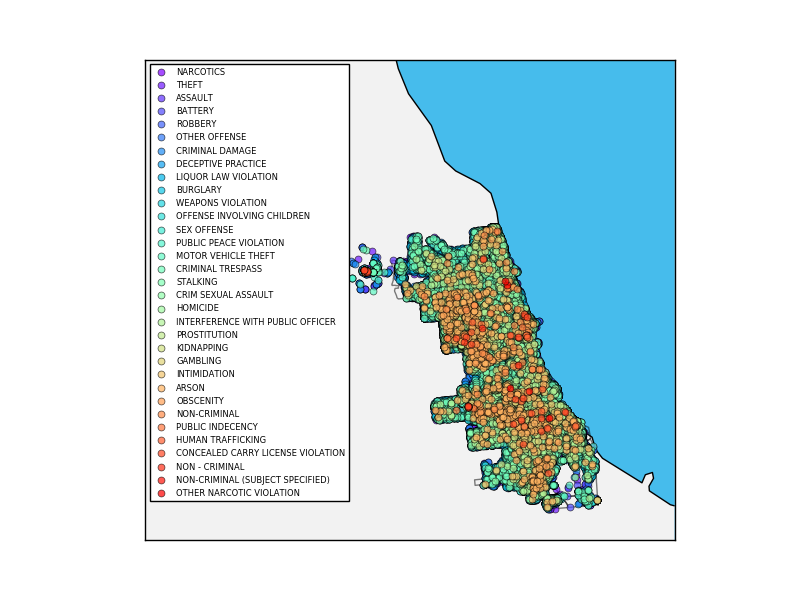
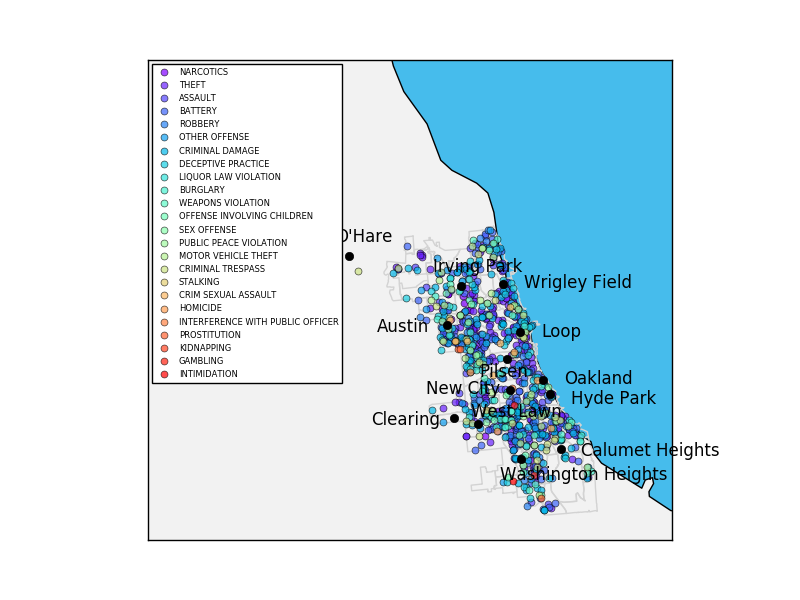
Add reference cities and refactor plot making

diff --git a/chicagoCrimes2016/organizeAndSortCrimes.py b/chicagoCrimes2016/organizeAndSortCrimes.py
@@ -1,7 +1,6 @@
 import numpy as np
 import pandas as pd
 import matplotlib.pyplot as plt
-import matplotlib.animation as animation
 import matplotlib.cm as cm
 from mpl_toolkits.basemap import Basemap
 from matplotlib.patches import Polygon
@@ -34,52 +33,46 @@ class crimes(object):
     def _save_dataframe_to_file(self, fname):
         self.crimes.to_csv(fname)
 
-def init():
-    point.set_data([], [])
-    return point,
+def getMap(df):
+    return Basemap(llcrnrlon=df['Longitude'].min()-0.4,
+                llcrnrlat=df['Latitude'].min(),
+                urcrnrlon=df['Longitude'].max()+0.2,
+                urcrnrlat=df['Latitude'].max()+0.2,
+                projection='lcc',lat_1=32,lat_2=45,lon_0=-95,
+                resolution = 'h')
+def drawNeighborhoods(mymap,hood_map):
+    for hood in hood_map.neighborhoods:
+        lon,lat = hood.polygon.exterior.coords.xy
+        x,y = mymap(lon,lat)
+        mymap.plot(x,y,'-k',color='lightgrey')
 
-def data_gen(df):
-    for index, row in df.iterrows():
-        yield [row['Latitude'],row['Longitude']]
+def drawRefPoints(mymap,refpoints):
+    for town in refpoints:
+        name,lat,lon, offx, offy = town
+        x,y = mymap(lon,lat)
+        mymap.plot(x, y, 'ok')
+        plt.annotate(name, xy=(x,y), xytext=(offx,offy),textcoords='offset points')
 
-def update(pt):
-    #array = scat.get_offsets()
-    #x,y = m(point[0],point[1])
-    #array = np.append(array, [x,y])
-    #scat.set_offsets(array)
-    #return scat
-    x, y = mymap(pt[1], pt[0])
-    point.set_data(x, y)
-    #array = point.get_offsets()
-    #array = np.append(array, [x,y])
-    #point.set_offsets(array)
-    return point,
     
 
 """ Main """
 if __name__ == "__main__":
+    refpoints = [['Loop',41.883333, -87.633333,15,-3],['Wrigley Field',41.948, -87.656,15,-3],['O\'Hare',42, -87.92,-10,10],['Irving Park',41.95, -87.73,-20,10],
+                 ['Oakland',41.82, -87.6,15,-3],['Hyde Park',41.8, -87.59,15,-7],['West Lawn',41.77, -87.72,-5,5],['Calumet Heights',41.728333, -87.579722,15,-5],
+                 ['Washington Heights',41.72, -87.65,-15,-15],['Clearing',41.78, -87.76,-60,-5],['Austin',41.9, -87.76,-50,-5],['Pilsen',41.85, -87.66,-20,-13],
+                 ['New City',41.81, -87.66,-60,-3]]
     hood_map = neighborhoodize.NeighborhoodMap(neighborhoodize.zillow.ILLINOIS)
-    #chicagoarea = crimes('ChicagoCrimes2016_Map_test.csv',hood_map)
-    chicagoarea = crimes('ChicagoCrimes2016_Map.csv',hood_map)
+    chicagoarea = crimes('ChicagoCrimes2016_Map_test.csv',hood_map)
+    #chicagoarea = crimes('ChicagoCrimes2016_Map.csv',hood_map)
 
     # Make a map
     fig = plt.figure()
     ax = fig.add_subplot(1, 1, 1)
-    mymap = Basemap(llcrnrlon=chicagoarea.crimes['Longitude'].min()-0.4,
-                llcrnrlat=chicagoarea.crimes['Latitude'].min(),
-                urcrnrlon=chicagoarea.crimes['Longitude'].max()+0.2,
-                urcrnrlat=chicagoarea.crimes['Latitude'].max()+0.2,
-                projection='lcc',lat_1=32,lat_2=45,lon_0=-95,
-                resolution = 'h')
+    mymap = getMap(chicagoarea.crimes)
     mymap.drawmapboundary(fill_color='#46bcec')
     mymap.fillcontinents(color='#f2f2f2',lake_color='#46bcec')
     mymap.drawcoastlines()
-
-    # Draw neighborhood bounds
-    for hood in hood_map.neighborhoods:
-        lon,lat = hood.polygon.exterior.coords.xy
-        x,y = mymap(lon,lat)
-        mymap.plot(x,y,'-k',alpha=0.5)
+    drawNeighborhoods(mymap,hood_map)
 
     # Seperate dataframe into list of crime types
     crimeTypes = chicagoarea.crimes['Primary Type'].unique()
@@ -92,29 +85,17 @@ if __name__ == "__main__":
         x,y = mymap(lon,lat)
         mymap.plot(x, y, color=next(colors), linestyle='None', markersize=5, marker='o', alpha=0.7, label=data['Primary Type'].unique()[0])
     
-    # To animate it
-    #ani = animation.FuncAnimation(plt.gcf(), update, data_gen(chicagoarea.crimes), init_func=init, interval=50, blit=False, save_count=1000)
-    #ani.save('myanimation.gif',writer='imagemagick',fps=30)
+    drawRefPoints(mymap,refpoints)
+    
     plt.legend(loc='upper left',prop={'size':6}, numpoints=1)
     plt.savefig("chicagoCrimeMap_2016.png")
-    #plt.show()
 
     plt.clf()
-    mymap = Basemap(llcrnrlon=chicagoarea.crimes['Longitude'].min()-0.4,
-                llcrnrlat=chicagoarea.crimes['Latitude'].min(),
-                urcrnrlon=chicagoarea.crimes['Longitude'].max()+0.2,
-                urcrnrlat=chicagoarea.crimes['Latitude'].max()+0.2,
-                projection='lcc',lat_1=32,lat_2=45,lon_0=-95,
-                resolution = 'h')
+    mymap = getMap(chicagoarea.crimes)
     mymap.drawmapboundary(fill_color='#46bcec')
     mymap.fillcontinents(color='#f2f2f2',lake_color='#46bcec')
     mymap.drawcoastlines()
-    
-    # Draw neighborhood bounds
-    for hood in hood_map.neighborhoods:
-        lon,lat = hood.polygon.exterior.coords.xy
-        x,y = mymap(lon,lat)
-        mymap.plot(x,y,'-k',alpha=0.5)
+    drawNeighborhoods(mymap,hood_map)
 
     data = chicagoarea.crimes[:][chicagoarea.crimes['Primary Type'] == 'HOMICIDE']
     #x,y = mymap(0, 0)
@@ -122,8 +103,10 @@ if __name__ == "__main__":
     lat = data['Latitude'].values
     x,y = mymap(lon,lat)
     mymap.plot(x, y, color='r', linestyle='None', markersize=5, marker='o', alpha=1., label=data['Primary Type'].unique()[0])
+    drawRefPoints(mymap,refpoints)
     plt.legend(loc='upper left',prop={'size':6}, numpoints=1)
     plt.savefig("chicagoHomicideMap_2016.png")
+
 
     # For making neighborhood specific csv
     """
